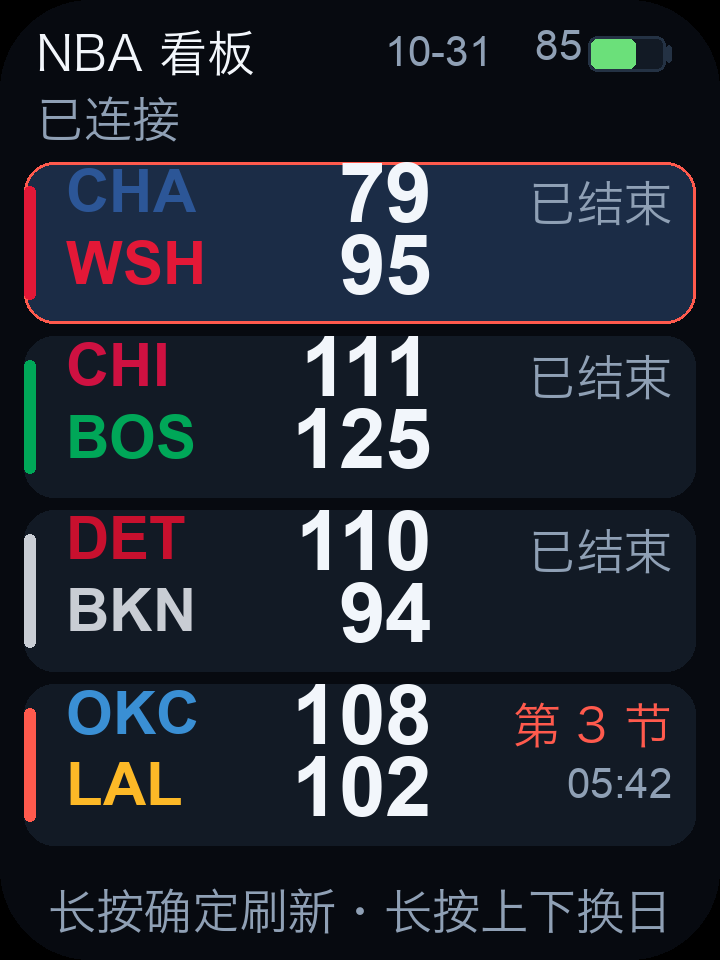
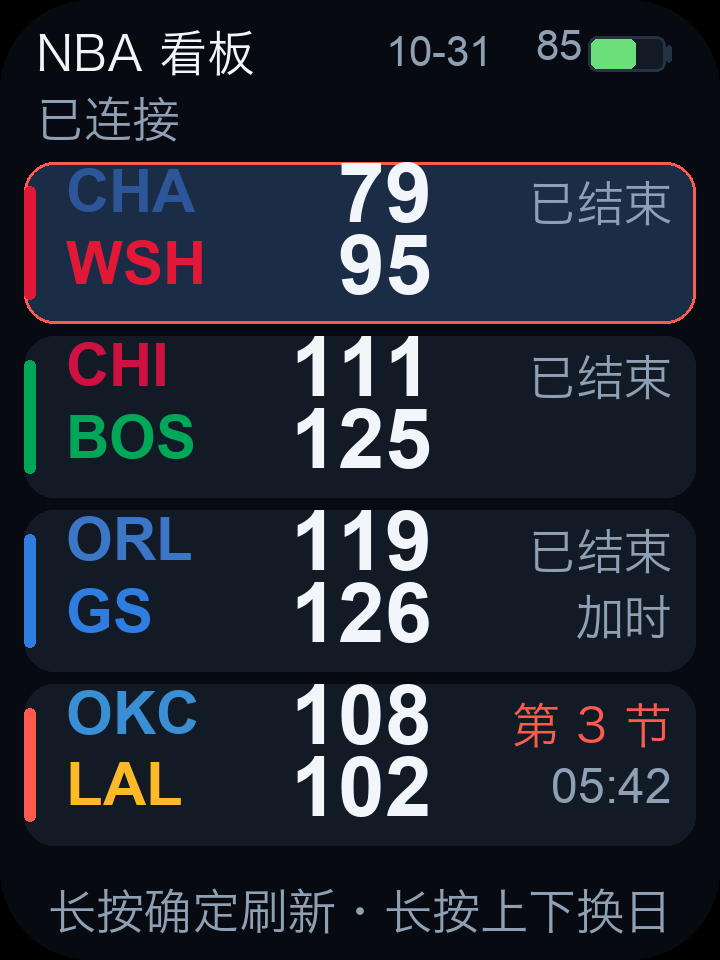
fix(ui): render the overtime label with the CJK font
Orlando @ Golden State finished in overtime (ESPN Final/OT, period 5).
The overview sub-line wrote '加时' into a label using lv_font_montserrat_14,
so LVGL drew two placeholder boxes under '已结束'.

- Use app_font_cjk_16 for the whole right column (it also covers ASCII).
- Add a font-routing check + regression test to check_font_coverage.py.
- Regenerate the overview preview with the real ORL 119 / GS 126 OT game.

diff --git a/tools/check_font_coverage.py b/tools/check_font_coverage.py
@@ -10,7 +10,10 @@ box. This check turns that into a build-time failure:
   (``main/nba_ui.c`` for labels, ``main/nba_format.c`` for formatted values,
   ``main/nba_app.c`` for the header status line);
 * it reads the glyph coverage of that generated font source;
-* it reports every character that has no glyph.
+* it reports every character that has no glyph;
+* it checks that Chinese text is not written into a Montserrat-only label
+  (a glyph can exist in the font yet still be drawn as a box if the label
+  uses the wrong font — see ``ui_font_routing_errors``).
 
 Run from the repository root: ``python3 tools/check_font_coverage.py``.
 If the font source is missing the check fails instead of pretending success.
@@ -116,6 +119,63 @@ def cmap_coverage(font_source: str) -> set[int]:
     return covered
 
 
+# A label is a "Latin-only label" when make_label() gave it a Montserrat font.
+# app_font_cjk_16 also covers 0x20-0x7E, so labels using it can show both.
+_LABEL_ASSIGN = re.compile(
+    r"([A-Za-z_][A-Za-z0-9_.\[\]>-]*)\s*=\s*make_label\s*\((.*?)\);", re.S
+)
+_CJK_ASSIGN = re.compile(r"\b([A-Za-z_]\w*)\s*=\s*\"([^\"]*)\"")
+_SET_TEXT = re.compile(
+    r"lv_label_set_text\s*\(\s*([A-Za-z_][A-Za-z0-9_.\[\]>-]*)\s*,\s*(.*?)\)\s*;", re.S
+)
+
+
+def _has_cjk(text: str) -> bool:
+    return any(ord(char) > 0x7F for char in text)
+
+
+def ui_font_routing_errors(ui_source: str) -> list[str]:
+    """Find Chinese text handed to a label whose font has no Chinese glyphs.
+
+    Glyph coverage is not enough: ``"加时"`` is present in app_font_cjk_16, but
+    a label created with ``&lv_font_montserrat_14`` renders each character as a
+    placeholder box.  On 2026-11-08, Orlando @ Golden State finished in
+    overtime, so the overview row showed "已结束" with exactly two boxes below.
+
+    This is a lightweight source-level data-flow check: track label variables
+    created with Montserrat, track variables assigned Chinese string literals,
+    then reject either kind of Chinese value being passed to lv_label_set_text
+    on those labels.  It is deliberately scoped to nba_ui.c's direct calls;
+    values coming from outside the file (network text, formatted buffers) are
+    the caller's responsibility and are covered by the label's font choice.
+    """
+    errors: list[str] = []
+    ascii_labels: set[str] = set()
+    cjk_vars: set[str] = set()
+
+    for match in _LABEL_ASSIGN.finditer(ui_source):
+        name, body = match.group(1), match.group(2)
+        if "lv_font_montserrat" in body:
+            ascii_labels.add(name)
+            for literal in strip_comments_and_literals(body):
+                if _has_cjk(literal):
+                    errors.append(f"{name}: Chinese literal {literal!r} uses a Montserrat font")
+
+    for match in _CJK_ASSIGN.finditer(ui_source):
+        if _has_cjk(match.group(2)):
+            cjk_vars.add(match.group(1))
+
+    for match in _SET_TEXT.finditer(ui_source):
+        label, value = match.group(1).strip(), match.group(2).strip()
+        if label not in ascii_labels:
+            continue
+        if value in cjk_vars:
+            errors.append(f"{label}: Chinese text via {value!r} uses a Montserrat font")
+        elif value.startswith('"') and _has_cjk(value):
+            errors.append(f"{label}: Chinese literal {value!r} uses a Montserrat font")
+    return errors
+
+
 def main() -> int:
     font_path = FONT_PATH
     if not font_path.is_file():
@@ -147,8 +207,17 @@ def main() -> int:
             print(f"  U+{cp:04X} {chr(cp)!r} (first seen in {required[cp]})")
         return 1
 
+    ui_path = Path("main/nba_ui.c")
+    routing = ui_font_routing_errors(ui_path.read_text(encoding="utf-8")) \
+        if ui_path.is_file() else []
+    if routing:
+        print("FAIL font routing: Chinese text on a Montserrat-only label")
+        for error in routing:
+            print(f"  {error}")
+        return 1
+
     print(f"Font coverage: PASS ({len(required)} non-ASCII code points, "
-          f"{len(covered)} covered by {FONT_NAME})")
+          f"{len(covered)} covered by {FONT_NAME}; UI font routing: PASS)")
     return 0
 
 

diff --git a/tests/test_font_routing.py b/tests/test_font_routing.py
@@ -1,0 +1,87 @@
+#!/usr/bin/env python3
+"""Regression guard: Chinese text must not reach a Montserrat-only label.
+
+Real device, 2026-11-08: Orlando @ Golden State ended in overtime (ESPN
+``Final/OT``, period 5). The overview row printed "已结束" and, below it, two
+placeholder boxes: the sub-line was "加时" but its label used the Latin-only
+Montserrat font. Both characters do exist in app_font_cjk_16, so the glyph
+coverage check alone could not catch it.
+
+This test exercises the source-level routing check in
+tools/check_font_coverage.py with good and bad variants, including the exact
+indirect-assignment shape that caused the bug.
+"""
+
+from __future__ import annotations
+
+import importlib.util
+from pathlib import Path
+
+ROOT = Path(__file__).resolve().parents[1]
+_spec = importlib.util.spec_from_file_location(
+    "check_font_coverage", ROOT / "tools" / "check_font_coverage.py"
+)
+assert _spec and _spec.loader
+_check = importlib.util.module_from_spec(_spec)
+_spec.loader.exec_module(_check)
+ui_font_routing_errors = _check.ui_font_routing_errors
+
+CJK_FONT = 'FONT_CJK'
+ASCII_FONT = '&lv_font_montserrat_14'
+
+GOOD = f'''
+static void build(void) {{
+    row->status = make_label(row->card, "", {CJK_FONT}, COLOR_MUTED);
+    row->status_sub = make_label(row->card, "", {CJK_FONT}, COLOR_MUTED);
+    s_detail.quarter_head[4] = make_label(scr, kHead[4], {CJK_FONT}, COLOR_MUTED);
+}}
+static void render(bool overtime) {{
+    const char *sub_text = "";
+    if (overtime) sub_text = "加时";
+    lv_label_set_text(row->status, "已结束");
+    lv_label_set_text(row->status_sub, sub_text);
+    lv_label_set_text(s_detail.quarter_head[4], "总");
+}}
+'''
+
+# Exactly the shipped bug: the sub-line label was created with Montserrat.
+BAD_INDIRECT = GOOD.replace(
+    f'row->status_sub = make_label(row->card, "", {CJK_FONT}',
+    f'row->status_sub = make_label(row->card, "", {ASCII_FONT}',
+)
+
+# A Chinese literal handed straight to a Montserrat label (no intermediate var).
+BAD_DIRECT = GOOD.replace(
+    f's_detail.quarter_head[4] = make_label(scr, kHead[4], {CJK_FONT}',
+    f's_detail.quarter_head[4] = make_label(scr, kHead[4], {ASCII_FONT}',
+)
+
+# A Chinese literal inside make_label() itself.
+BAD_LABEL_TEXT = GOOD.replace(
+    's_detail.quarter_head[4] = make_label(scr, kHead[4], FONT_CJK',
+    's_detail.quarter_head[4] = make_label(scr, "总", &lv_font_montserrat_14',
+)
+
+
+def main() -> int:
+    good = ui_font_routing_errors(GOOD)
+    assert good == [], f"fixed layout must pass, got: {good}"
+
+    indirect = ui_font_routing_errors(BAD_INDIRECT)
+    assert any("status_sub" in error and "sub_text" in error for error in indirect), \
+        f"indirect Chinese value must be caught, got: {indirect}"
+
+    direct = ui_font_routing_errors(BAD_DIRECT)
+    assert any("quarter_head[4]" in error for error in direct), \
+        f"direct Chinese literal must be caught, got: {direct}"
+
+    label_text = ui_font_routing_errors(BAD_LABEL_TEXT)
+    assert any("quarter_head[4]" in error for error in label_text), \
+        f"Chinese literal in make_label() must be caught, got: {label_text}"
+
+    print("Font routing guard: PASS (fixed / indirect / direct / make_label)")
+    return 0
+
+
+if __name__ == "__main__":
+    raise SystemExit(main())

diff --git a/tools/render_screens.py b/tools/render_screens.py
@@ -142,7 +142,9 @@ def overview() -> Screen:
     games = [
         ("CHA", "79", "WSH", "95", "已结束", "", "post"),
         ("CHI", "111", "BOS", "125", "已结束", "", "post"),
-        ("DET", "110", "BKN", "94", "已结束", "", "post"),
+        # 2026-11-08 真实赛果:魔术 @ 勇士打加时。"加时"曾因副句用西文字体
+        # 在真机上显示成两个方框,这里保留该场景作为回归示例。
+        ("ORL", "119", "GS", "126", "已结束", "加时", "post"),
         ("OKC", "108", "LAL", "102", "第 3 节", "05:42", "live"),
     ]
     for i, (away, ascore, home, hscore, status, sub, state) in enumerate(games):
@@ -160,7 +162,8 @@ def overview() -> Screen:
         scr.text(84, y + 24, hscore, 28, TEXT, w=60, align="right", bold=True)
         scr.text(150, y + 6, status, 16, LIVE if state == "live" else MUTED,
                  w=74, align="right", cjk=True)
-        scr.text(150, y + 28, sub, 14, MUTED, w=74, align="right")
+        # 副句整列用 app_font_cjk_16(含 ASCII),所以中文"加时"和数字都是 16px。
+        scr.text(150, y + 28, sub, 16, MUTED, w=74, align="right")
     scr.text(4, 296, "长按确定刷新·长按上下换日", 16, MUTED, w=232,
              align="center", cjk=True)
     return scr

diff --git a/main/nba_ui.c b/main/nba_ui.c
@@ -228,10 +228,16 @@ static void overview_build(void)
         row->home_score = make_label(row->card, "", &lv_font_montserrat_28, COLOR_TEXT);
         place(row->home_score, 76, 24, 60, LV_TEXT_ALIGN_RIGHT);
 
+        // 右列整列都用中文字体:主句是"已结束/第3节/未开始",副句平时是纯数字
+        // (剩余时间/开赛时间),但加时赛的副句是"加时"两个汉字。之前副句用
+        // montserrat_14,汉字没有字形,LVGL 会各画一个方框 —— 真机 2026-11-08
+        // 魔术 @ 勇士 Final/OT(period=5)的"已结束"底下就是这两个空框。
+        // app_font_cjk_16 含 0x20-0x7E 全 ASCII,数字/冒号照样能显示,所以固定
+        // 用中文字体即可,不必按内容在两种字体间来回切。
         row->status = make_label(row->card, "", FONT_CJK,
-                                 COLOR_MUTED);
+                                  COLOR_MUTED);
         place(row->status, 142, 6, 74, LV_TEXT_ALIGN_RIGHT);
-        row->status_sub = make_label(row->card, "", &lv_font_montserrat_14, COLOR_MUTED);
+        row->status_sub = make_label(row->card, "", FONT_CJK, COLOR_MUTED);
         place(row->status_sub, 142, 28, 74, LV_TEXT_ALIGN_RIGHT);
     }
 
